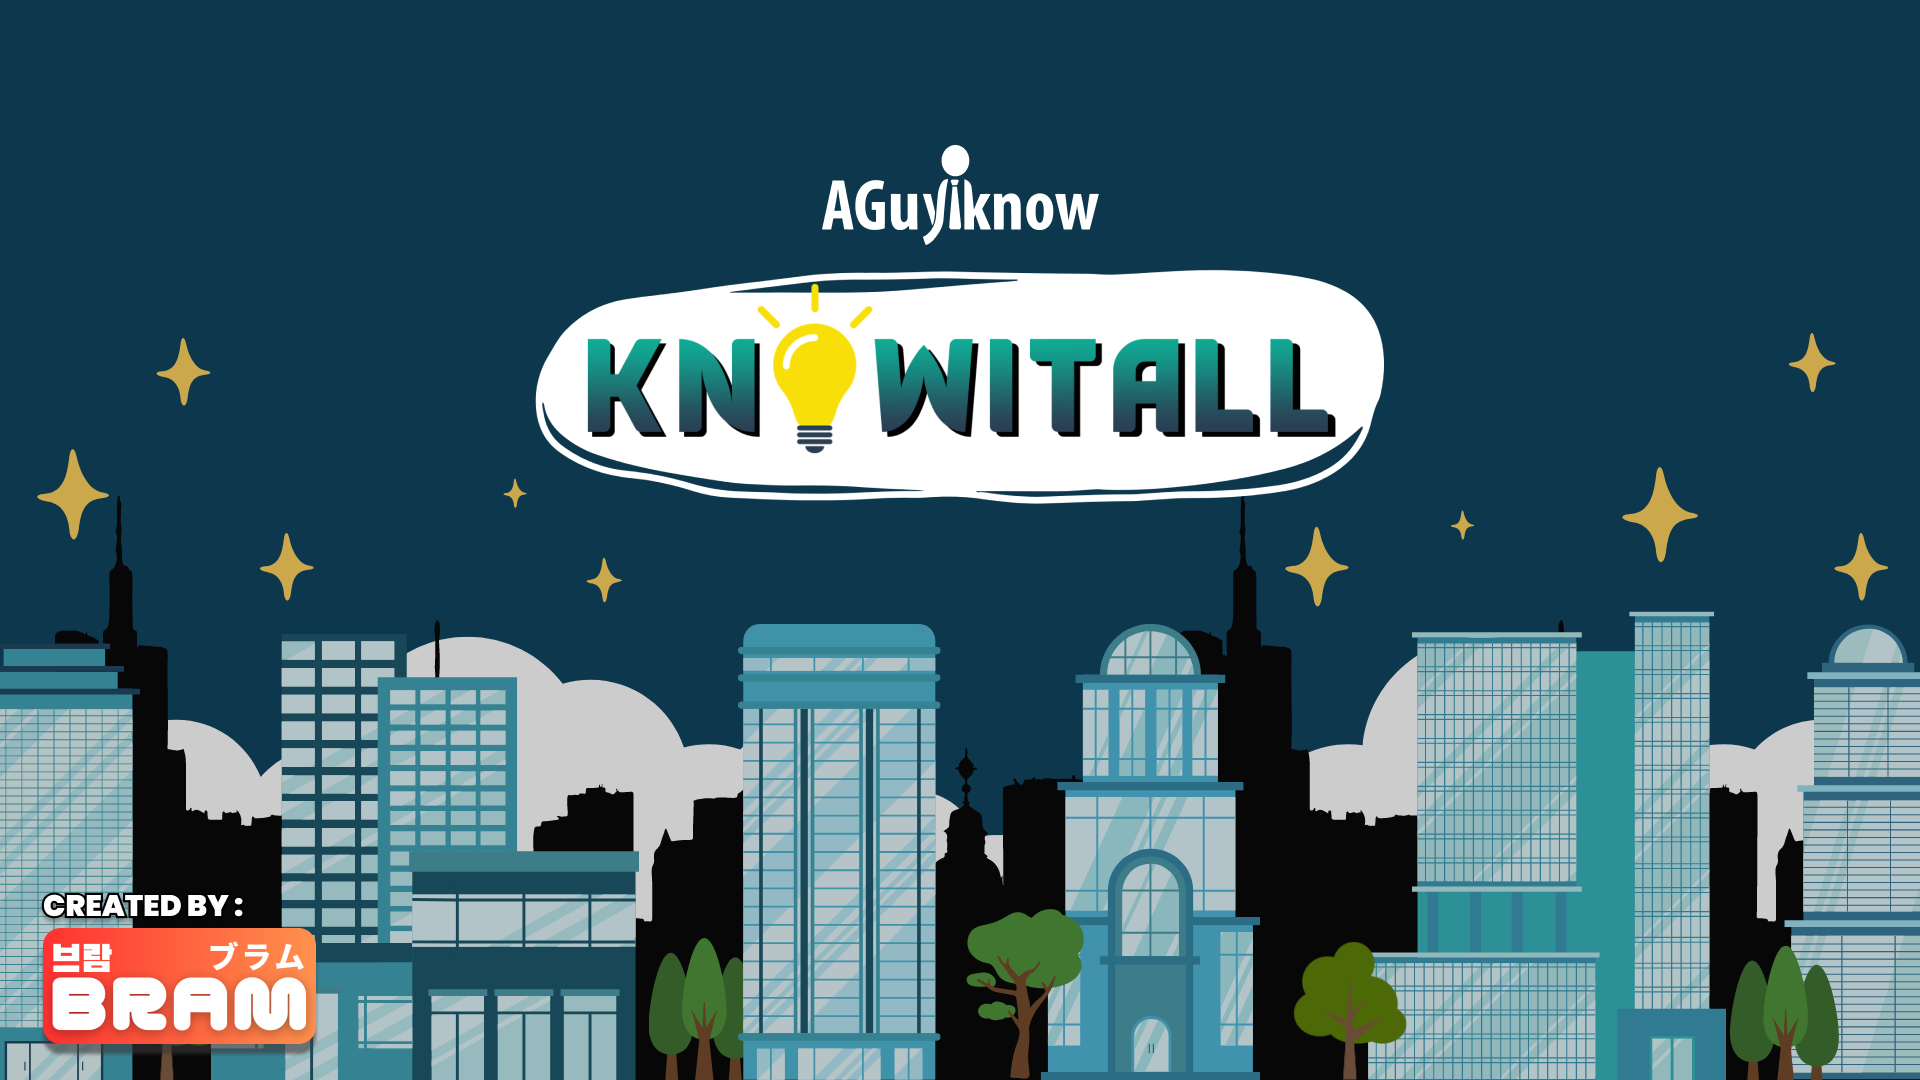
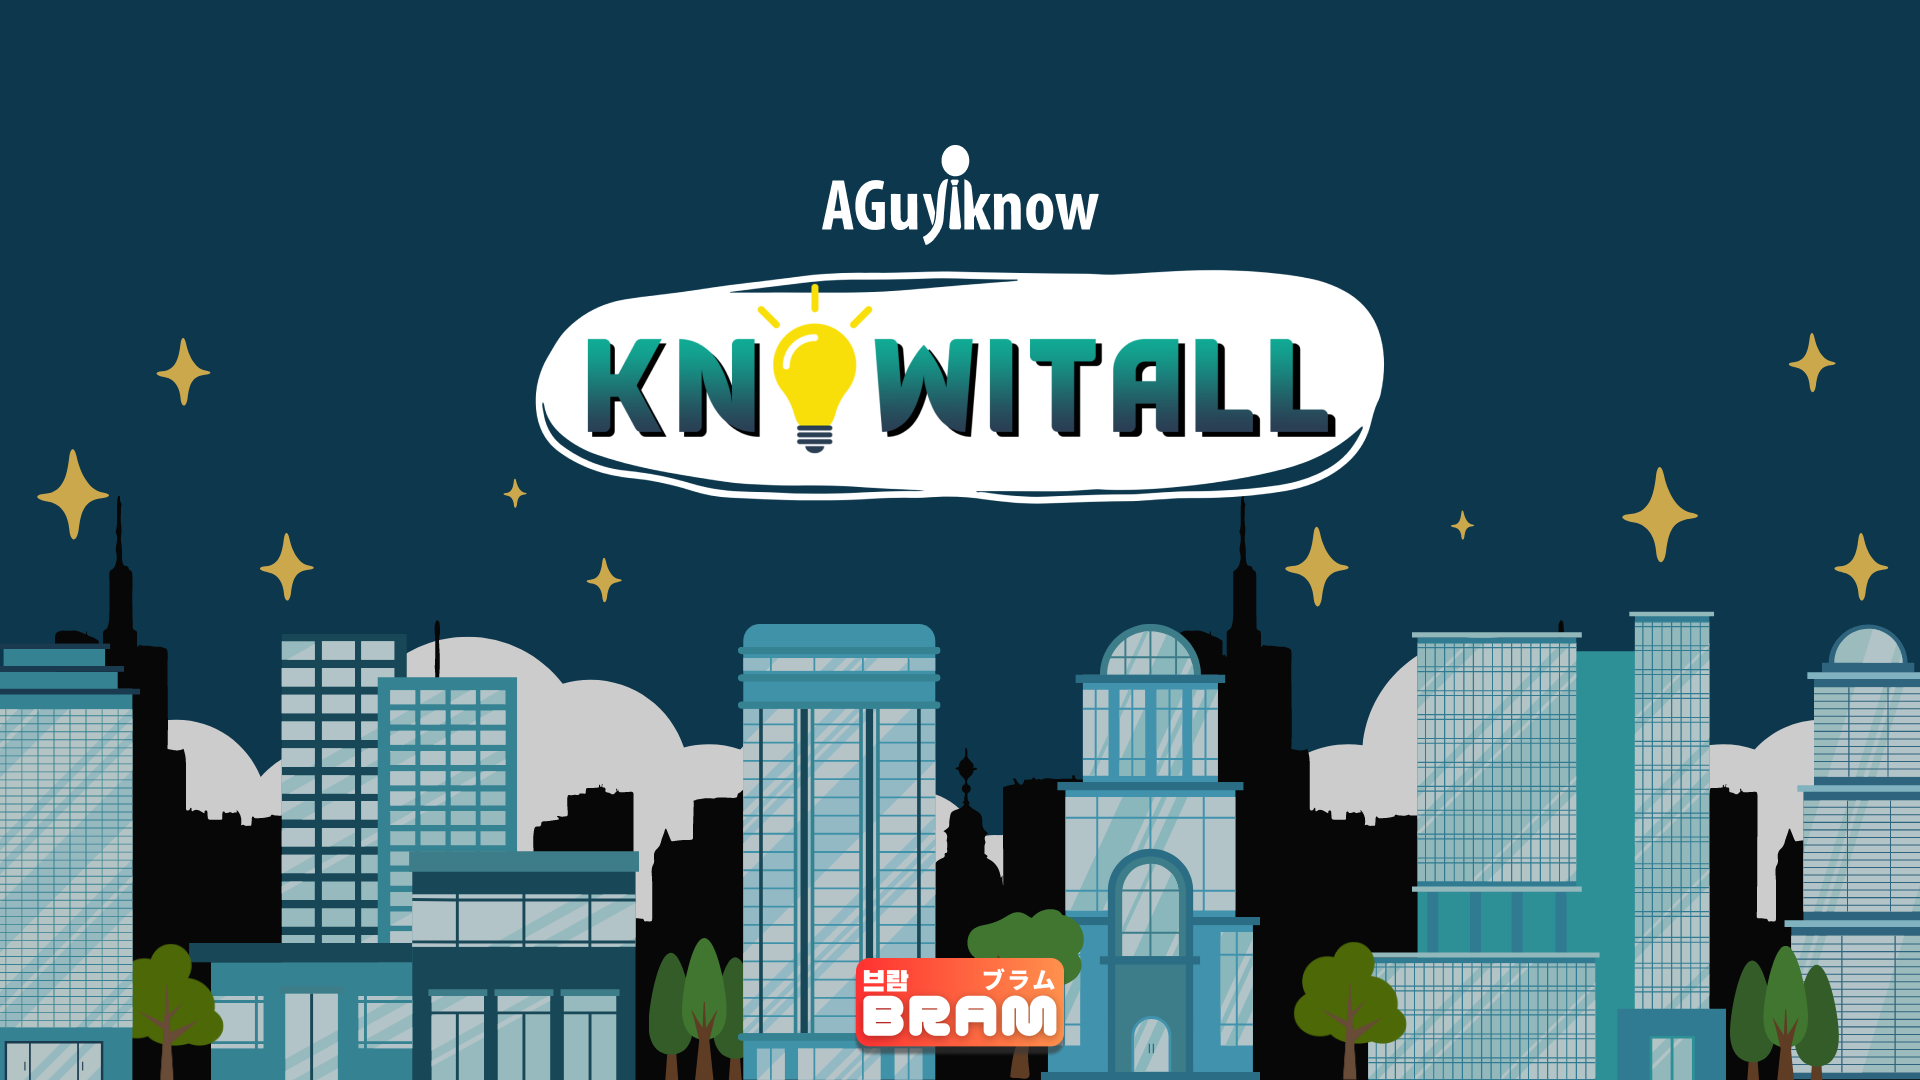
added credits info in the home screen

Changed region(s): [[0.0, 0.825, 0.1875, 0.9778], [0.4375, 0.8861, 0.5625, 0.9778]]

diff --git a/LoadingScene.js b/LoadingScene.js
@@ -92,35 +92,63 @@ class LoadingScene extends Phaser.Scene {
     }
 
     showMenuScreen() {
-        this.startMusic1 = new SoundButton(this, this.centerX + 800, this.centerY - 450, "music1", musicConfig);
+        this.startMusic1 = new SoundButton(this, this.centerX + 850, this.centerY - 450, "music1", musicConfig);
         this.add.existing(this.startMusic1);
-
+    
+        this.infoBtn = new ImageButton(this, this.startMusic1.x - 130, this.startMusic1.y, "infoBtn",
+            () => {
+                console.log("info button clicked");
+                this.showInfoPopup();
+            },
+            () => this.infoBtn.setScale(1.1),
+            () => this.infoBtn.setScale(1),
+            1);
+        this.add.existing(this.infoBtn);
+    
         this.menuBgTween = this.add.tween({
             targets: this.menu_bg,
             alpha: 1,
             duration: 1500,
             ease: 'Power2',
             onComplete: function() {
-                this.newGameBtn = new ImageButton(this, config.scale.width/2, config.scale.height/2 + 70, "newGameBtn", 
-                    () => this.goToNextScene(), 
-                    () => this.newGameBtn.setPosition(config.scale.width/2 - 10, config.scale.height/2 + 70), 
-                    ()=> this.newGameBtn.setPosition(config.scale.width/2, config.scale.height/2 + 70), 0.8);
-
-                this.loadGameBtn = new ImageButton(this, config.scale.width/2, config.scale.height/2 + 210, "loadGameBtn", 
-                    () => console.log("load game scene here"), 
-                    () => this.loadGameBtn.setPosition(config.scale.width/2 - 10, config.scale.height/2 + 210), 
-                    ()=> this.loadGameBtn.setPosition(config.scale.width/2, config.scale.height/2 + 210), 0.8);
+                this.newGameBtn = new ImageButton(this, config.scale.width/2, config.scale.height/2 + 70, "newGameBtn",
+                    () => {
+                        if (!this.infoPopupActive) {
+                            this.goToNextScene();
+                        }
+                    },
+                    () => this.newGameBtn.setPosition(config.scale.width/2 - 10, config.scale.height/2 + 70),
+                    () => this.newGameBtn.setPosition(config.scale.width/2, config.scale.height/2 + 70), 0.8);
+    
+                this.loadGameBtn = new ImageButton(this, config.scale.width/2, config.scale.height/2 + 210, "loadGameBtn",
+                    () => {
+                        if (!this.infoPopupActive) {
+                            console.log("load game scene here");
+                        }
+                    },
+                    () => this.loadGameBtn.setPosition(config.scale.width/2 - 10, config.scale.height/2 + 210),
+                    () => this.loadGameBtn.setPosition(config.scale.width/2, config.scale.height/2 + 210), 0.8);
             },
             callbackScope: this,
         });
-        
-       
-        
-           
-        
-    
-    
     }
+    
+    showInfoPopup() {
+        this.infoPopupActive = true; // Flag to track if info popup is active
+    
+        const popupContainer = this.add.container(this.centerX, this.centerY);
+        popupContainer.setDepth(1);
+        const popupBg = this.add.image(0, 0, 'creditPopUp');
+        popupContainer.add(popupBg);
+        const closeButton = this.add.image(popupBg.width / 2.3, -popupBg.height / 2.2, 'closeBtn');
+        closeButton.setInteractive();
+        closeButton.on('pointerdown', () => {
+            popupContainer.destroy();
+            this.infoPopupActive = false; // Reset the flag when info popup is closed
+        });
+        popupContainer.add(closeButton);
+    }
+    
 
     goToNextScene() {
         this.startMusic1.stopMusic();

diff --git a/LoadAllAssets.js b/LoadAllAssets.js
@@ -44,6 +44,8 @@ class LoadAllAssets extends Phaser.Scene {
          this.load.image("closeButton", "assets/buttons/closeButton.png");
          this.load.image('buttonBorder', 'assets/Buttons/buttonborder.png');
          this.load.image('upBtn', 'assets/Buttons/UpBtn.png');
+         this.load.image('infoBtn', 'assets/Buttons/info_button.png');
+         this.load.image('closeBtn', 'assets/Buttons/closeBtn.png');
 
          //assets for all logo
          this.load.image("logo1", "assets/logo/logo6.png");
@@ -98,6 +100,8 @@ class LoadAllAssets extends Phaser.Scene {
          this.load.image("piecesCtr", "assets/objects/PuzzlePiecesCtr.png");
          this.load.image("timerBG", "assets/objects/timer.png");
          this.load.image("pointerBG", "assets/objects/points.png");
+         this.load.image("creditPopUp", "assets/objects/creditsPopUp.png");
+
 
         //assets for music
         this.load.audio("music1", "assets/music/music1.mp3");
